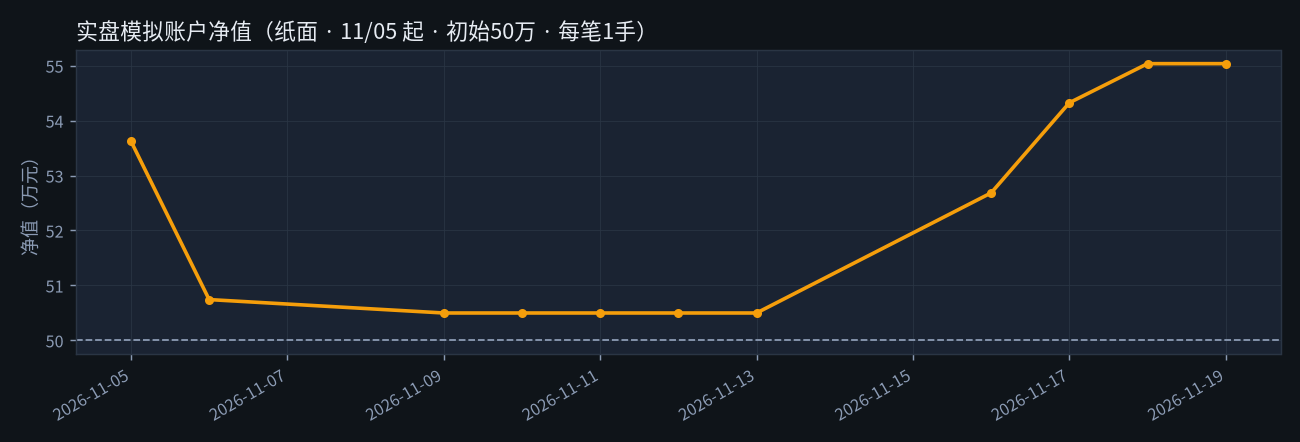
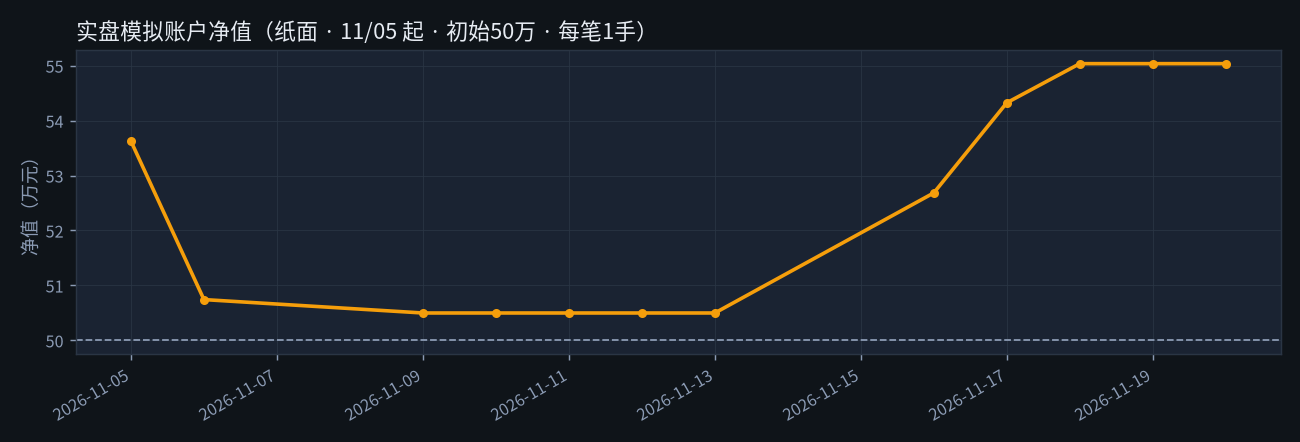
daily: 2026-11-20

diff --git a/reports/2026-11-20.html b/reports/2026-11-20.html
@@ -1,0 +1,192 @@
+<!doctype html>
+<html lang="zh-CN"><head><meta charset="utf-8"><meta name="viewport" content="width=device-width,initial-scale=1">
+<title>2026-11-20 · 股指期货量化系统每日复盘</title>
+<style>:root{
+  --bg:#0f1419;--card:#1a2332;--border:#2a3544;--text:#e7ecf3;--muted:#8b9bb4;
+  --accent:#3b82f6;--ok:#22c55e;--ok-bg:#12261c;--ok-bd:#1e4d36;
+  --watch:#f59e0b;--watch-bg:#2a2110;--watch-bd:#5c4518;
+  --danger:#ef4444;--table-head:#151c27;
+}
+*{box-sizing:border-box}
+body{
+  margin:0;font-family:-apple-system,BlinkMacSystemFont,"Segoe UI","PingFang SC","Hiragino Sans GB","Microsoft YaHei",sans-serif;
+  background:var(--bg);color:var(--text);line-height:1.65;font-size:15.5px;
+}
+.wrap{max-width:820px;margin:0 auto;padding:24px 16px 56px}
+a{color:var(--accent)}
+.topnav{margin-bottom:18px;font-size:.9rem}
+.topnav a{text-decoration:none}
+header h1{font-size:1.45rem;margin:0 0 6px;font-weight:700}
+header .sub{color:var(--muted);margin:0 0 14px;font-size:.92rem}
+.badge{
+  display:inline-block;padding:3px 10px;border-radius:999px;font-size:.78rem;font-weight:650;
+  background:#1e3a5f;color:#93c5fd;margin-right:6px;
+}
+.disclaimer{
+  padding:12px 14px;border:1px solid var(--border);border-radius:10px;
+  background:#151c27;color:var(--muted);font-size:.88rem;margin-bottom:28px;
+}
+h2{
+  font-size:1.12rem;margin:32px 0 12px;padding-bottom:8px;
+  border-bottom:1px solid var(--border);font-weight:700;
+}
+h3{font-size:1rem;margin:20px 0 10px;font-weight:650}
+p,li{color:var(--text)}
+.muted{color:var(--muted)}
+.lead{font-size:.98rem;margin:0 0 16px}
+table{
+  width:100%;border-collapse:collapse;font-size:.9rem;margin:10px 0 16px;
+  background:var(--card);border-radius:10px;overflow:hidden;border:1px solid var(--border);
+}
+th,td{padding:10px 12px;text-align:left;border-bottom:1px solid var(--border);vertical-align:top}
+th{background:var(--table-head);color:var(--muted);font-weight:600;white-space:nowrap}
+tr:last-child td{border-bottom:none}
+td.num,th.num{text-align:right;font-variant-numeric:tabular-nums}
+.chart{
+  display:block;width:100%;max-width:100%;height:auto;border-radius:12px;
+  border:1px solid var(--border);margin:12px 0 8px;background:#111;
+}
+.cap{font-size:.8rem;color:var(--muted);margin:0 0 18px}
+.grid{display:grid;gap:14px}
+@media(min-width:640px){.grid-2{grid-template-columns:1fr 1fr}}
+.cmd{
+  border-radius:14px;padding:16px 16px 14px;border:1px solid var(--border);
+  background:var(--card);margin-bottom:14px;
+}
+.cmd.open{border-color:var(--ok-bd);background:linear-gradient(180deg,var(--ok-bg),var(--card))}
+.cmd.watch{border-color:var(--watch-bd);background:linear-gradient(180deg,var(--watch-bg),var(--card))}
+.cmd .head{display:flex;flex-wrap:wrap;align-items:center;gap:8px;margin-bottom:10px}
+.cmd .name{font-size:1.05rem;font-weight:700;margin:0}
+.pill{
+  font-size:.72rem;font-weight:700;padding:3px 8px;border-radius:999px;letter-spacing:.02em;
+}
+.pill.open{background:#14532d;color:#86efac}
+.pill.watch{background:#78350f;color:#fcd34d}
+.pill.alt{background:#1e3a5f;color:#93c5fd}
+.kv{width:100%;border:none;background:transparent;margin:0}
+.kv th,.kv td{border:none;border-bottom:1px dashed #2a3544;padding:8px 0;background:transparent}
+.kv th{width:5.5em;color:var(--muted);font-weight:600}
+.kv tr:last-child th,.kv tr:last-child td{border-bottom:none}
+.rules{
+  padding:14px 16px;border-radius:12px;border:1px solid var(--border);
+  background:var(--card);margin:10px 0;
+}
+.rules ul{margin:8px 0 0;padding-left:1.2em}
+.rules li{margin:6px 0}
+.evidence{
+  padding:14px 16px;border-radius:12px;border:1px solid #1e3a5f;
+  background:#121a28;margin:12px 0 18px;
+}
+.evidence h3{margin-top:0}
+footer{margin-top:36px;padding-top:14px;border-top:1px solid var(--border);color:var(--muted);font-size:.8rem}
+.strong{font-weight:650;color:#fff}
+.list{display:flex;flex-direction:column;gap:12px}
+.card{display:block;padding:16px 18px;border:1px solid var(--border);border-radius:12px;background:var(--card);text-decoration:none;color:inherit}
+.card:hover{border-color:var(--accent)}
+.card .date{font-size:.82rem;color:var(--accent);font-weight:600;margin-bottom:4px}
+.card .title{font-size:1.05rem;font-weight:650;margin:0 0 6px;border:none;padding:0}
+.card .meta{font-size:.88rem;color:var(--muted);margin:0}
+.tag{display:inline-block;font-size:.72rem;padding:2px 8px;border-radius:999px;background:#1e3a2f;color:#86efac;margin-left:8px}
+table{display:table}
+@media(max-width:600px){table{font-size:.82rem}th,td{padding:8px 6px}}
+</style></head><body><div class="wrap">
+<div class="topnav"><a href="../index.html">← 复盘首页</a></div>
+<header><h1>股指期货量化系统 · 每日复盘</h1>
+<p class="sub">交易日 <strong>2026-11-20（周五）</strong> · 下一交易日 <strong>2026-11-23（周一）</strong></p>
+<span class="badge">主策略 PF-K（IM）</span><span class="badge">纸面模拟账户运行中</span></header>
+<div class="disclaimer"><strong>免责声明</strong>：独立量化系统的研究复盘，仅供参考学习，不构成投资建议，不代下单。期货有杠杆，可能亏损超过预期，行动与盈亏由你本人承担。</div>
+
+<div class="cmd open"><div class="head"><span class="pill open">明日指令</span><h3 class="name">明天（2026-11-23（周一））开空 1 手 IM（中证1000股指期货主力）</h3></div>
+<table class="kv"><tbody>
+<tr><th>做什么</th><td><strong>开空 1 手</strong> —— 做空（赌继续跌）</td></tr>
+<tr><th>怎么下单</th><td>明早 <strong>9:25 集合竞价 / 9:30 开盘</strong> 以市价或对价成交（规则=按开盘价成交）。<br>
+<span class="muted">参考：若开盘≈今日收盘 5545.6，成交价≈<strong>5545.6</strong></span></td></tr>
+<tr><th>止损价</th><td><strong>成交价 + 310.7 点</strong>；示例：按 5545.6 成交 → 止损 <strong>5856.4</strong>（盘中触及即平）</td></tr>
+<tr><th>止盈</th><td>不设止盈，让利润跑</td></tr>
+<tr><th>最多拿几天</th><td>3 个交易日（含开仓当天）：最晚 <strong>2026-11-25（周三） 收盘前（14:55–15:00）平仓</strong></td></tr>
+<tr><th>最坏一笔</th><td>止损约亏 310.7 点 × 200 元 = <strong>约 6.2 万元/手</strong>（另加费用滑点；跳空过止损会亏更多）</td></tr></tbody></table></div>
+
+<h2>一、今天发生了什么</h2>
+<p class="lead">IM（中证1000股指期货主连）今天开 5760.0、最高 5769.8、最低 5535.2、收 <strong>5545.6</strong>，
+比昨天收盘 5876.8 <strong>跌 331.2 点（-5.64%）</strong>。开盘相对昨收 低开 116.8 点，盘中震荡走低，收阴线。</p>
+<div class="rules"><ul><li>系统今天没有持仓、没有开仓也没有平仓（纸面）。</li></ul></div>
+<img class="chart" src="../assets/2026-11-20/im_price_z.png" alt="IM 近100日K线与zSAS">
+<p class="cap">上：IM 近 100 个交易日 K 线和系统历史开平仓点；下：每日 zSAS，越过虚线就出信号。</p>
+
+<h2>二、为什么出这个信号（白话版）</h2>
+<p>今天收盘后算出 <strong>zSAS = -1.80</strong>，低于做空线 −1.25。</p>
+<div class="rules"><ul>
+<li><b>它在看什么</b>：今天这根K线的涨跌，相对「平时一天能波动多少」（ATR）有多猛；同时扣掉「开盘跳空」那部分——靠隔夜跳空涨上去的不算数，盘中一路买上去的才算。</li>
+<li><b>怎么算</b>：SAS = 0.55 × 今日涨跌幅/ATR比例 − 0.35 × 异常跳空；再和过去 60 天比，变成 zSAS（高出平时几个标准差）。</li>
+<li><b>怎么用</b>：zSAS ≥ +1.25 → 今天涨得「比平常猛得多」且不是靠跳空 → 系统认为短期惯性会延续，次日开盘做多；≤ −1.25 反过来做空；中间不动。</li>
+<li><b>今天</b>：开盘只低开 116.8 点，涨幅主要是盘中走出来的，所以 zSAS 很高。</li>
+</ul></div>
+
+<h2>三、明天具体怎么挂单</h2>
+<p>规则只有一条：<b>次日开盘价成交</b>。所以明早 9:25 集合竞价或 9:30 开盘用市价/对价跟进即可；止损价按你的<b>实际成交价</b>算。</p>
+
+<table><thead><tr><th>假如明早开盘价是…</th><th class="num">你的成交价≈</th><th class="num">止损价（=成交价+310.7）</th></tr></thead>
+<tbody><tr><td>高开 0.3×ATR</td><td class="num">5607.8</td><td class="num"><strong>5918.6</strong></td></tr><tr><td>平开（=今日收盘）</td><td class="num">5545.6</td><td class="num"><strong>5856.4</strong></td></tr><tr><td>低开 0.3×ATR</td><td class="num">5483.4</td><td class="num"><strong>5794.2</strong></td></tr><tr><td>低开 0.6×ATR</td><td class="num">5421.4</td><td class="num"><strong>5732.2</strong></td></tr></tbody></table>
+<p class="cap">ATR 取回测同口径（信号日的 atr14_prev）= 207.2 点；止损距离 1.5×ATR = 310.7 点；价格按最小变动 0.2 点取整。</p>
+<div class="evidence"><h3>执行提醒（执行建议，未回测）</h3><ul>
+<li>只在开盘这一刻跟；<b>开盘没成交就放弃本笔，不在盘中追高/追低挂天价单</b>。回测只验证过「开盘价成交」。</li>
+<li>止损单可在成交后立刻挂条件单（多单：最新价 ≤ 止损价 触发卖出平仓）。若开盘就跳空越过止损，按开盘价离场（回测同样处理）。</li>
+<li>第3天收盘前没止损，就在尾盘平掉；中间不加仓、不移动止损。</li>
+</ul></div>
+
+<h2>四、实盘模拟账户（11/5起）<span class="sub" style="font-size:.8em;font-weight:400"> · 纸面记账 · 初始50万 · 每笔1手</span></h2>
+<img class="chart" src="../assets/2026-11-20/ledger.png" alt="纸面账户净值曲线">
+<table><tbody>
+<tr><td>当前净值</td><td class="num"><strong>550,365 元</strong></td><td>收益率 <strong>+10.07%</strong> · 最大回撤 -5.83%</td></tr>
+<tr><td>已实现 / 浮动盈亏</td><td class="num">+50,365 / +0 元</td><td>已平仓 2 笔 · 胜率 100% · 已付费用滑点约 275 元</td></tr>
+</tbody></table>
+<table><thead><tr><th>状态</th><th>方向</th><th>开仓日/价</th><th>平仓日/价</th><th class="num">费用滑点(点)</th><th class="num">净盈亏(元)</th><th>说明</th></tr></thead><tbody>
+<tr><td>已平仓</td><td>多</td><td>2026-11-05 / 6423.0</td><td>2026-11-09 / 6448.6</td><td class="num">0.7</td><td class="num">+4,981</td><td>时间退出</td></tr>
+<tr><td>已平仓</td><td>空</td><td>2026-11-16 / 6215.0</td><td>2026-11-18 / 5987.4</td><td class="num">0.7</td><td class="num">+45,384</td><td>时间退出</td></tr>
+</tbody></table>
+<p class="cap">口径：只跟主策略 PF-K（IM，每笔 1 手）。成交价=日线开盘价/止损价/第3天收盘价；费用=开·平昨万0.23（平今万2.3）+ 往返滑点0.4点；持仓中的浮盈已预扣平仓费用。纸面记账，非真实成交。</p>
+
+<h2>五、历史成绩（样本外，费后）</h2>
+<img class="chart" src="../assets/2026-11-20/oos_equity.png" alt="样本外权益 vs 中证1000">
+<p class="cap">「样本外」= 2025-06-03 之后的数据，参数是在那之前就定死的，这段相当于「模拟实战」。图为 2手/100万 口径累计收益率，对比同期中证1000指数。</p>
+
+<table><thead><tr><th>指标（样本外 2025-06-03 → 2026-11-20，费后）</th><th class="num">回测口径 2手/100万</th><th class="num">重算 1手/50万</th></tr></thead><tbody>
+<tr><td>交易笔数 / 胜率</td><td class="num">46 笔 / 63.0%</td><td class="num">46 笔 / 63.0%</td></tr>
+<tr><td>累计盈利</td><td class="num">+58.0 万元</td><td class="num">+29.0 万元</td></tr>
+<tr><td>策略年化（单利口径）</td><td class="num">+39.6%</td><td class="num">+39.6%</td></tr>
+<tr><td>中证1000 同期年化</td><td class="num">-4.7%</td><td class="num">-4.7%</td></tr>
+<tr><td><strong>超额年化</strong>（策略−指数）</td><td class="num"><strong>+44.4%</strong></td><td class="num">+44.4%</td></tr>
+<tr><td>2025年（6/3起）：策略 / 指数 / 超额</td><td class="num" colspan="2">+33.6% / +25.1% / +8.4%</td></tr>
+<tr><td>2026年至今：策略 / 指数 / 超额</td><td class="num" colspan="2">+24.5% / -27.1% / +51.6%</td></tr>
+</tbody></table>
+<p class="cap">「1手/50万」是把同一批成交按 1 手、50万本金重算：金额减半、收益率相同（因为仓位和本金同比例缩小）。年化=总收益÷年数（单利）。
+数字由冻结参数实时重算。与存档 summary.json（2026-11-04）对照：存档 44 笔 / 胜率 61.4% / 超额年化 28.64%。</p>
+
+<h2>六、风险提示</h2>
+<div class="rules"><ul>
+<li><b>历史 ≠ 未来</b>：样本外只有 46 笔，统计上仍偏薄；任何一段连亏都可能发生。</li>
+<li><b>参数偏脆</b>：持有天数只有 H≈3 天附近站得住，邻域诊断里：持有 2 天时超额年化只剩约 +3%~+4%；持有 4–5 天虽然总数更好看，但 2025 年行情上涨段会明显跑输指数（攻防不再两全）。12 个邻近参数里只有 H=3 的 3 格「攻防两全」——所以严格按 3 天执行，不要自作主张拿更久或更短。</li>
+<li><b>单笔最大亏损</b>：止损 1.5×ATR = 310.7 点 × 200 元/点 ≈ <b>6.2 万元/手</b>（另加费用滑点；跳空越过止损时会更多）。50万账户单笔最坏约 12.4%。</li>
+<li>IM 一手合约价值约 111 万元（价格×200），保证金只占其中一部分，杠杆高，账户资金要留足以免被强平。</li>
+<li>不叠加：持仓期间出现的新信号不接；平仓当天出现的信号也不接（与回测一致）。</li>
+</ul></div>
+
+
+<h2>附：卫星策略 PF-K-IC（中证500股指期货 IC）</h2>
+<div class="rules"><p style="margin:0">同一套指标用在 IC 上，但参数单独冻结：阈值 ±1.5、止损 1.5×ATR、最多拿 5 天。<b>不计入上面的纸面模拟账户</b>，仅供对照。</p>
+<p style="margin:8px 0 0">今日 IC 收 5902.0（-277.0 点）。不动（zSAS=-1.61；今天刚平仓，按回测约定平仓当日的信号不接）。</p>
+<p class="cap" style="margin:8px 0 0">样本外（2手/100万口径）：31 笔，胜率 61.3%，超额年化 vs 中证500 +37.7%。</p></div>
+
+<h2>七、术语小词典</h2>
+<table><tbody>
+<tr><td>ATR</td><td>平均真实波幅（14日），代表「这个品种平时一天大概波动多少点」。今天用于止损的 ATR = 207.2 点。</td></tr>
+<tr><td>zSAS</td><td>系统的核心指标：今天「盘中走出来的涨跌」比过去 60 天平均水平高出几个标准差。±1.25 是开仓线。</td></tr>
+<tr><td>样本外</td><td>定参数时没用过的数据。在样本外还能赚钱，才说明不是「拟合历史」。本系统切点 2025-06-03。</td></tr>
+<tr><td>止损</td><td>预先定好的认错价格，价格碰到就平仓离场，控制单笔最大亏损。</td></tr>
+<tr><td>对价</td><td>买入挂卖一价、卖出挂买一价，保证立刻成交。</td></tr>
+</tbody></table>
+
+<h2>数据与缺口</h2>
+<ul class="muted"><li>今日无数据缺口。</li><li>数据：IM0/IC0 主连日线（v2/*_raw.csv）、中证1000/500 指数日线；参数冻结 PF-K_q1.25_s1.5_RNone_H3 / PF-K-IC_q1.5_s1.5_RNone_H5，未调参。</li></ul>
+<footer>生成：2026-11-20 15:41（北京时间）· 仓库 nandawys/index-quant · 研究参考，不代下单</footer>
+</div></body></html>

diff --git a/index.html b/index.html
@@ -105,7 +105,8 @@ table{display:table}
 </tbody></table>
 <p class="cap">口径：只跟主策略 PF-K（IM，每笔 1 手）。成交价=日线开盘价/止损价/第3天收盘价；费用=开·平昨万0.23（平今万2.3）+ 往返滑点0.4点；持仓中的浮盈已预扣平仓费用。纸面记账，非真实成交。</p>
 <h2>每日复盘</h2>
-<nav class="list" aria-label="复盘列表"><a class="card" href="reports/2026-11-19.html"><div class="date">2026-11-19（周四）<span class="tag">最新</span></div><h2 class="title">明日不动 · 空仓观望</h2><p class="meta">IM 收 5876.8（-110.6）· zSAS -0.70 · 账户净值 55.04 万</p></a>
+<nav class="list" aria-label="复盘列表"><a class="card" href="reports/2026-11-20.html"><div class="date">2026-11-20（周五）<span class="tag">最新</span></div><h2 class="title">明日开空1手 IM · 止损=成交价+310.7</h2><p class="meta">IM 收 5545.6（-331.2）· zSAS -1.80 · 账户净值 55.04 万</p></a>
+<a class="card" href="reports/2026-11-19.html"><div class="date">2026-11-19（周四）</div><h2 class="title">明日不动 · 空仓观望</h2><p class="meta">IM 收 5876.8（-110.6）· zSAS -0.70 · 账户净值 55.04 万</p></a>
 <a class="card" href="reports/2026-11-18.html"><div class="date">2026-11-18（周三）</div><h2 class="title">明日不动 · 空仓观望</h2><p class="meta">IM 收 5987.4（-35.6）· zSAS -0.34 · 账户净值 55.04 万</p></a>
 <a class="card" href="reports/2026-11-17.html"><div class="date">2026-11-17（周二）</div><h2 class="title">持空中 · 止损 6537.2</h2><p class="meta">IM 收 6023.0（-82.0）· zSAS -0.40 · 账户净值 54.32 万</p></a>
 <a class="card" href="reports/2026-11-16.html"><div class="date">2026-11-16（周一）</div><h2 class="title">持空中 · 止损 6537.2</h2><p class="meta">IM 收 6105.0（-171.8）· zSAS -0.89 · 账户净值 52.68 万</p></a>
